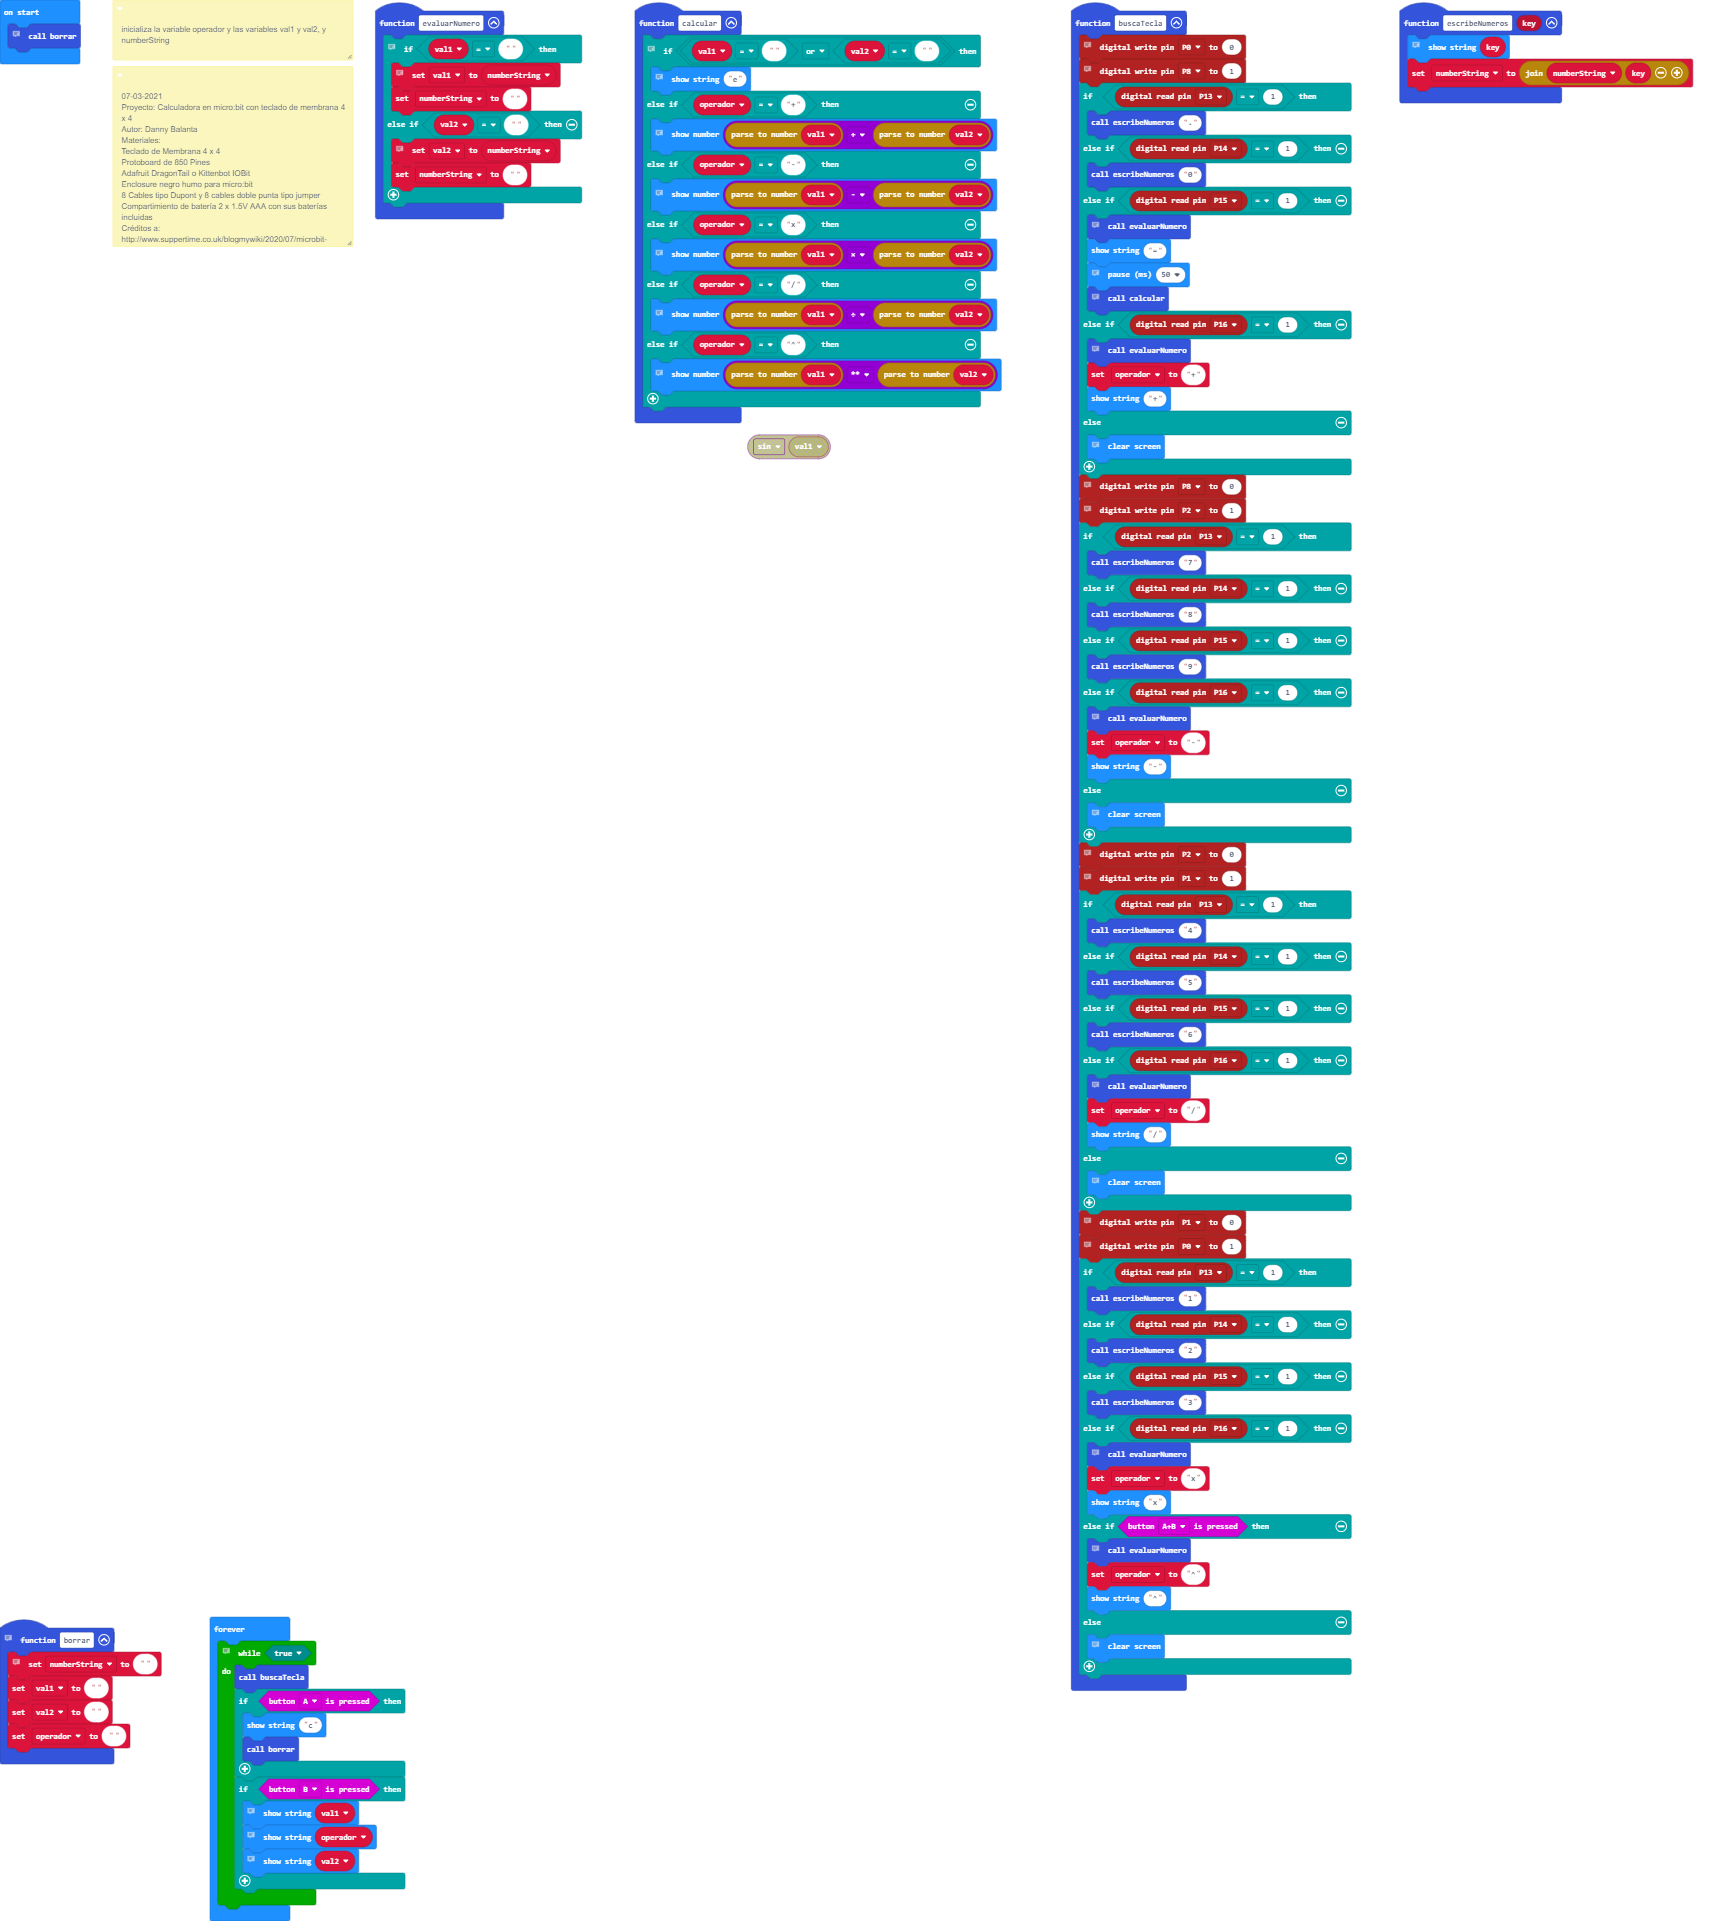
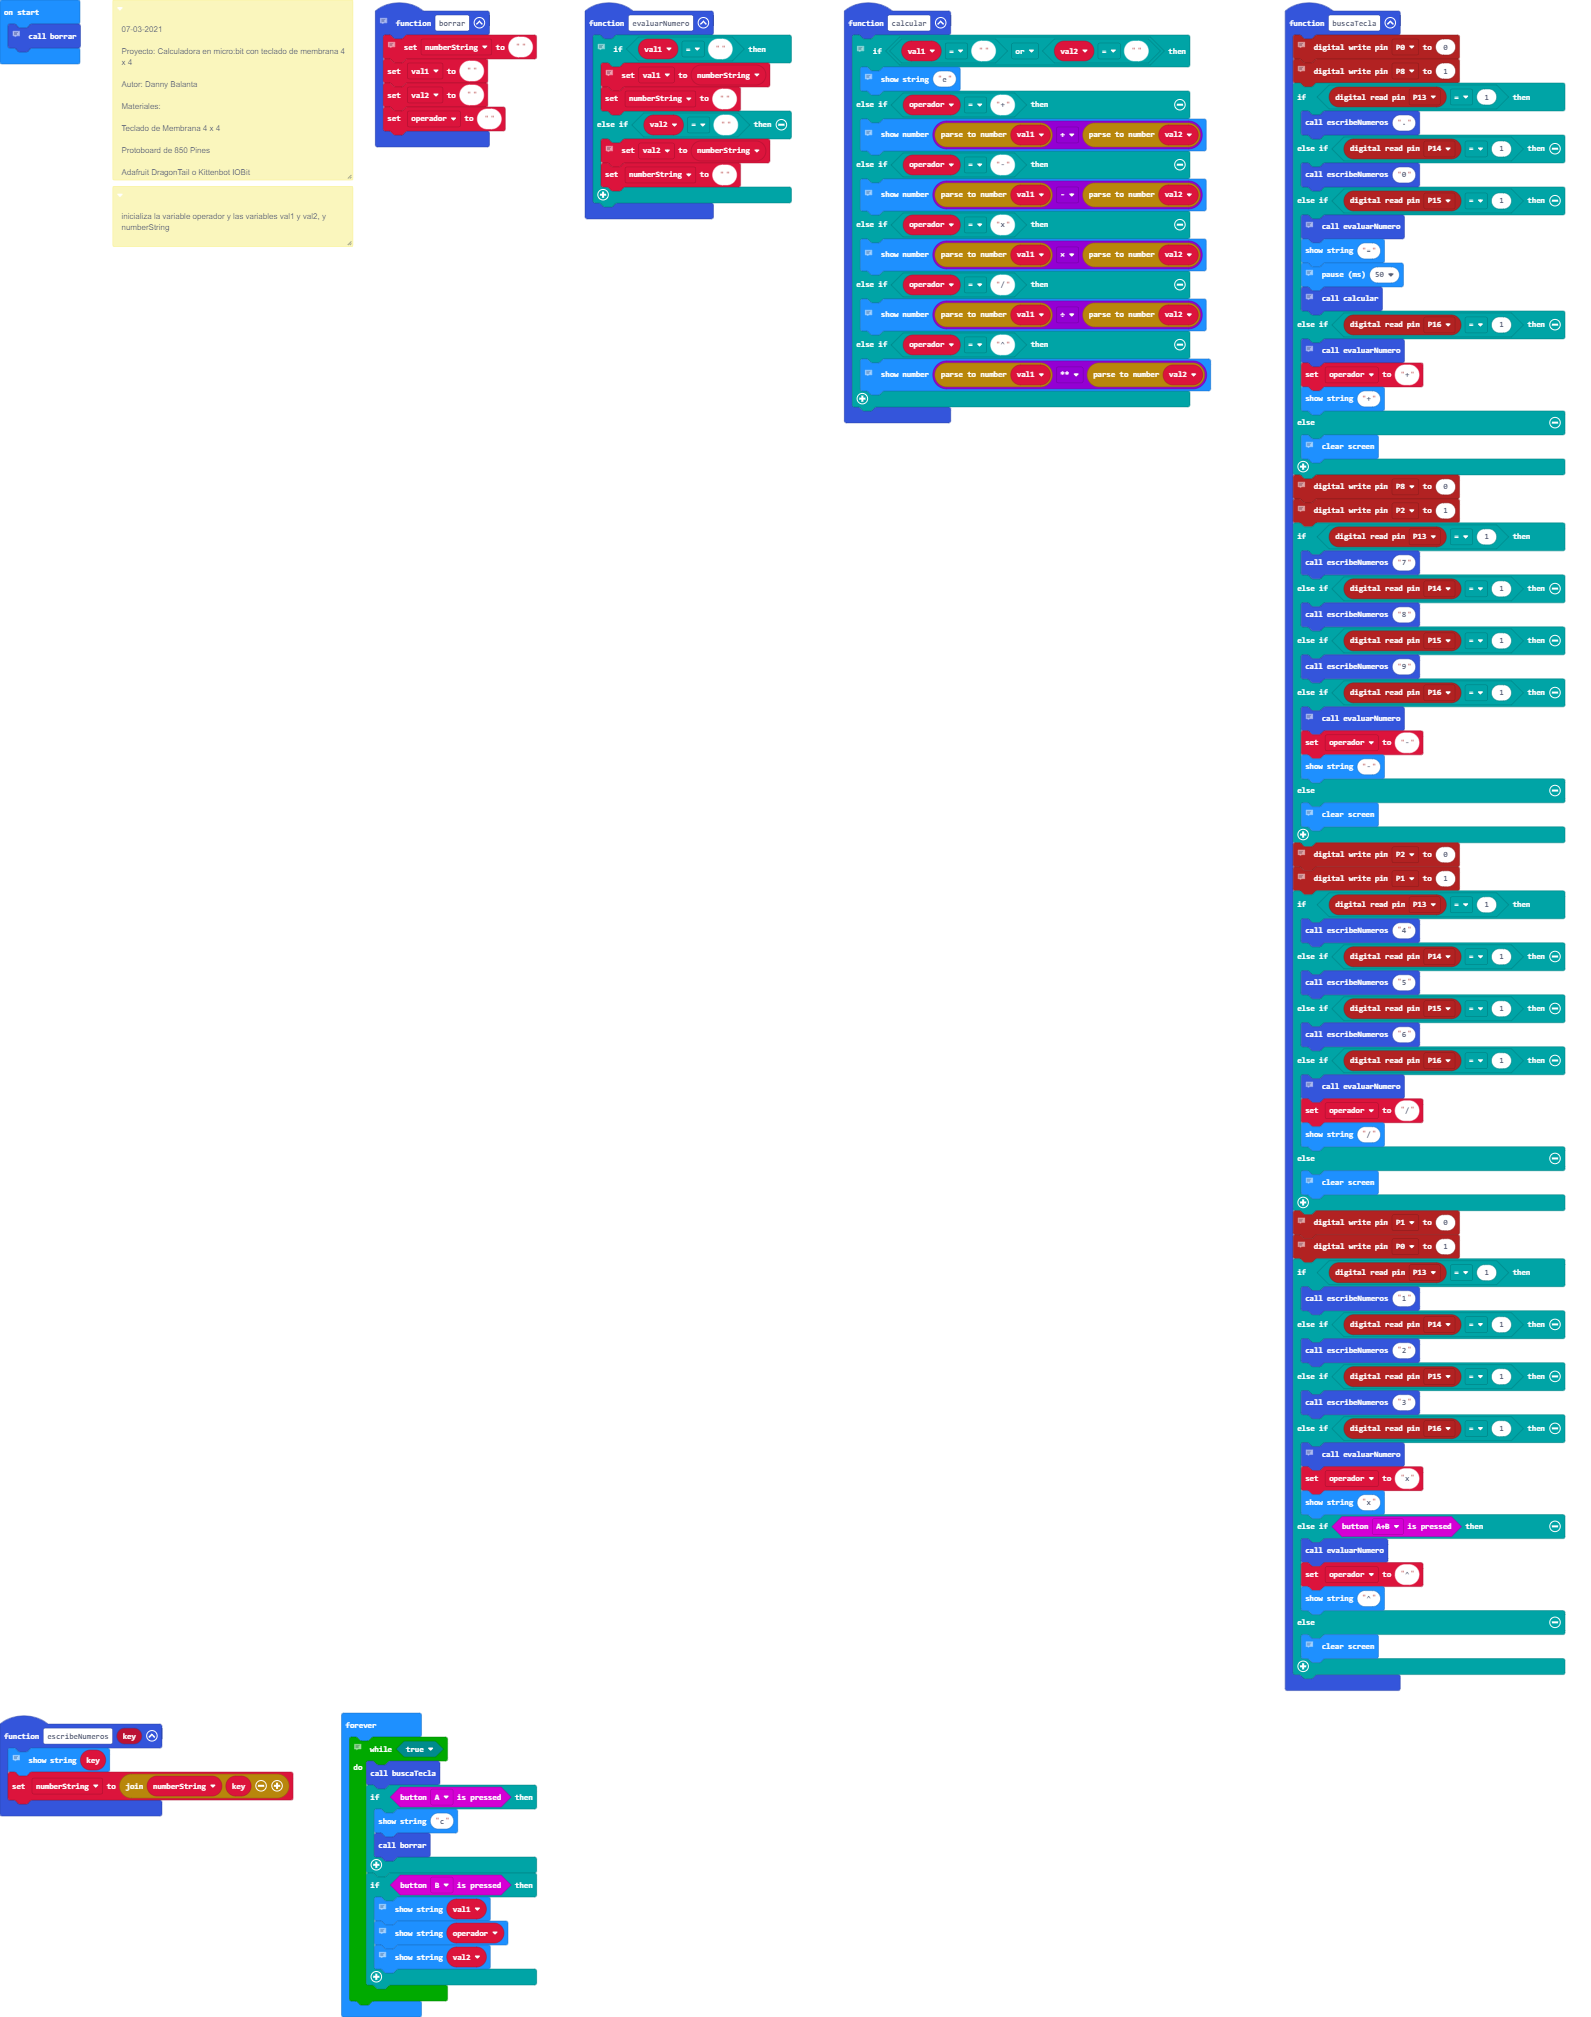
Update pxt.json, main.blocks, main.ts

Changed region(s): [[0.3696, 0.0, 0.9855, 0.9058], [0.0, 0.8433, 0.3388, 1.0], [0.0, 0.0, 0.3388, 0.1562]]

diff --git a/main.ts b/main.ts
@@ -1,3 +1,6 @@
+/**
+ * inicializa la variable operador y las variables val1 y val2, y numberString
+ */
 // llama la función borrar
 function borrar () {
     // llama la función borrar y limpia la memoria
@@ -36,7 +39,7 @@ function calcular () {
         // Realiza la división de lo almacenado en val1 y val2
         basic.showNumber(parseFloat(val1) / parseFloat(val2))
     } else if (operador == "^") {
-        // Realiza la división de lo almacenado en val1 y val2
+        // Realiza la potencia de lo almacenado en val1 y val2
         basic.showNumber(parseFloat(val1) ** parseFloat(val2))
     }
 }
@@ -123,7 +126,6 @@ function buscaTecla () {
         operador = "x"
         basic.showString("x")
     } else if (input.buttonIsPressed(Button.AB)) {
-        // llama la función evaluarNumero para dar el resultado de la multiplicación
         evaluarNumero()
         operador = "^"
         basic.showString("^")
@@ -137,9 +139,6 @@ function escribeNumeros (key: string) {
     basic.showString(key)
     numberString = "" + numberString + key
 }
-/**
- * inicializa la variable operador y las variables val1 y val2, y numberString
- */
 /**
  * 07-03-2021
  * 
